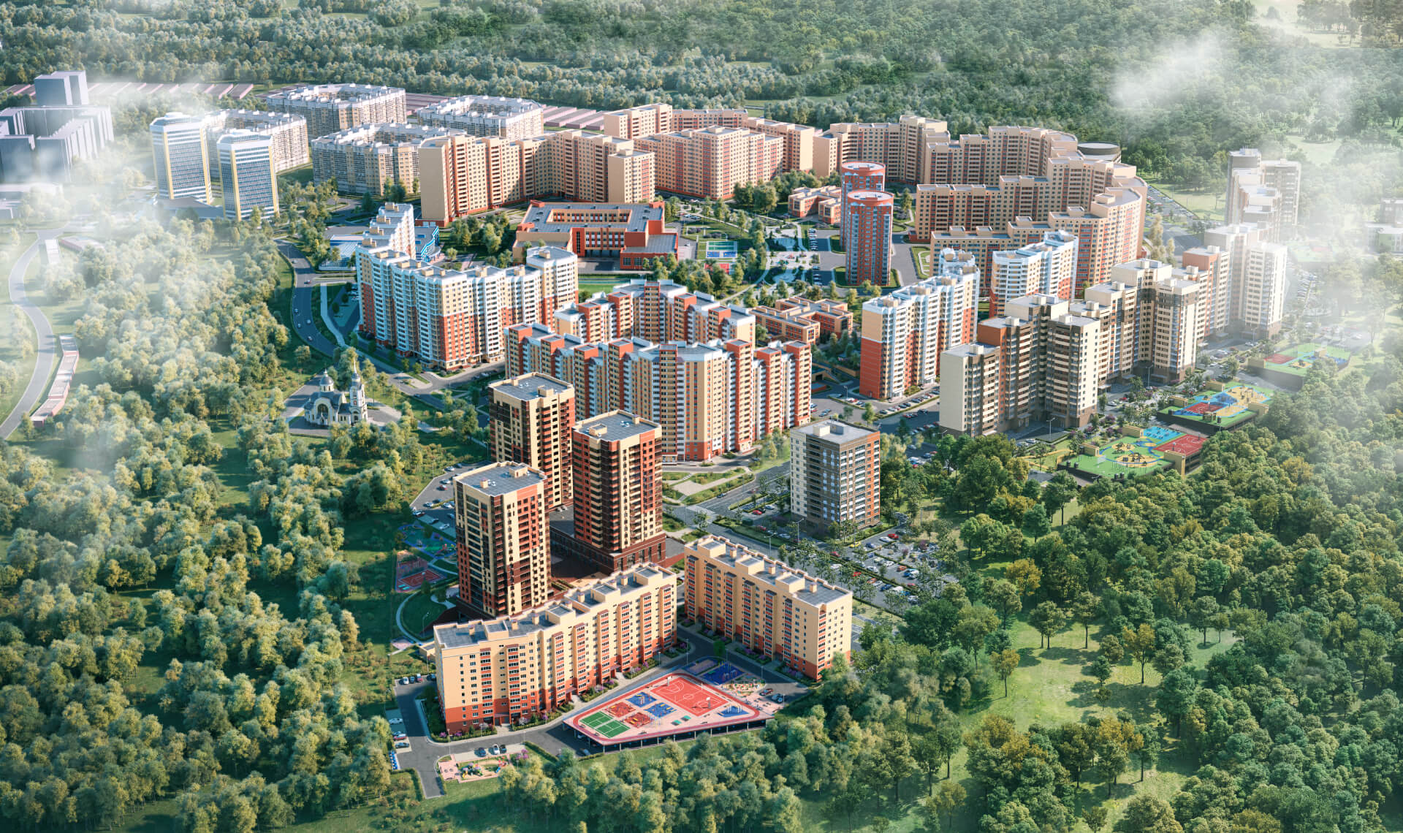
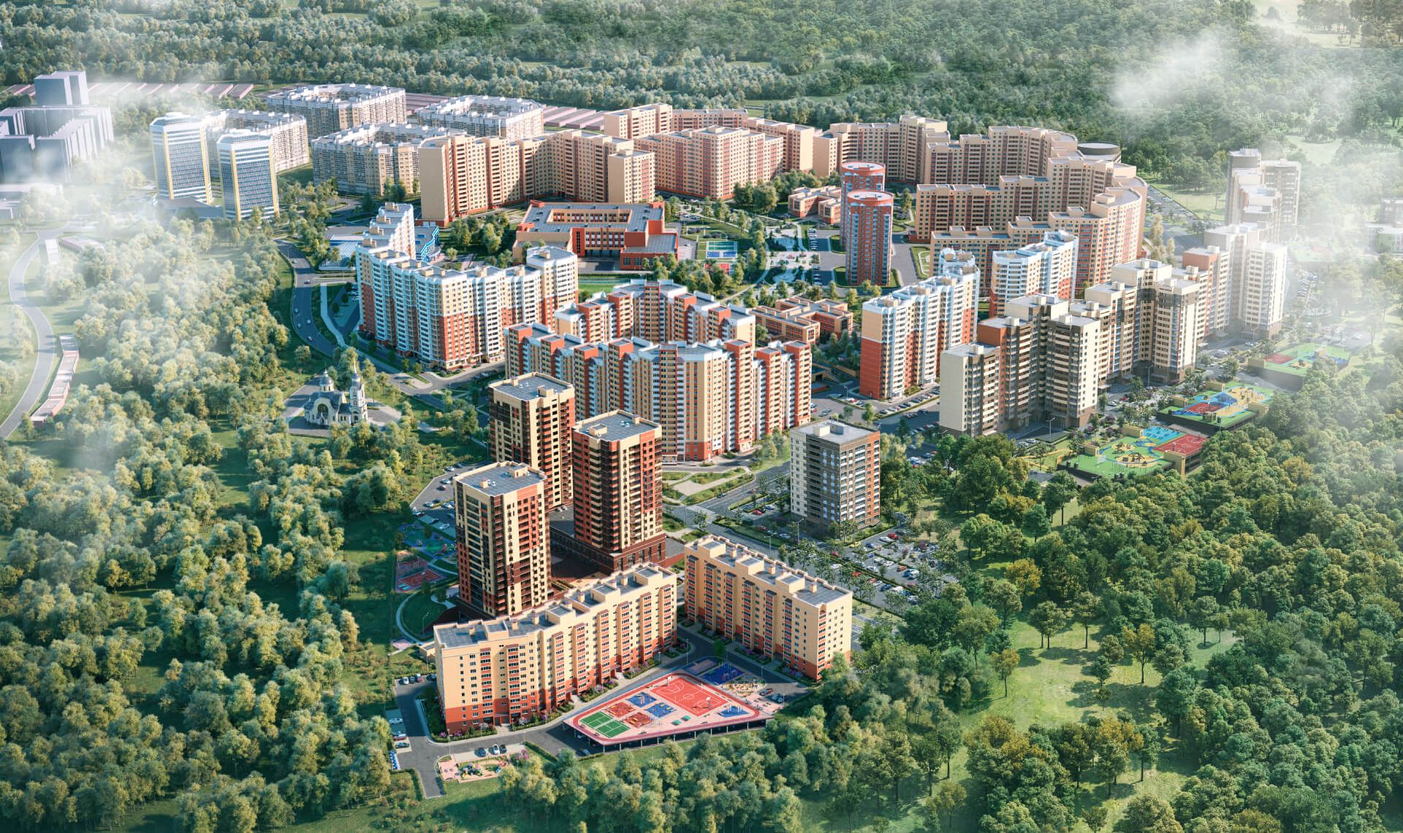
Меняет положение лого Чебоксарам 555лет

Changed region(s): [[0.5938, 0.2149, 0.625, 0.307], [0.8125, 0.5219, 0.8438, 0.5526], [0.4375, 0.8289, 0.4688, 0.8596]]

diff --git a/custom/css/style.css b/custom/css/style.css
@@ -9393,12 +9393,12 @@ div.adv {
   width: 100%;
 }
 .cheb-jubilee--desktop {
-  left: 0;
-  top: 682px;
-
-  @media (min-width: 1461px) {
-    left: 38px;
-  }
+  position: fixed;
+  width: 125px;
+  bottom: 21px;
+  right: 151px;
+  left: unset;
+  top: unset;
 }
 .cheb-jubilee--mobile {
   left: 0;

diff --git a/source/less/blocks/cheb-jubilee/cheb-jubilee.less b/source/less/blocks/cheb-jubilee/cheb-jubilee.less
@@ -23,8 +23,12 @@
     }
 
     &--desktop {
-        left: 0;
-        bottom: 0;
+        position: fixed;
+        width: 125px;
+        bottom: 21px;
+        right: 151px;
+        left: unset;
+        top: unset
     }
 
     &--mobile {
